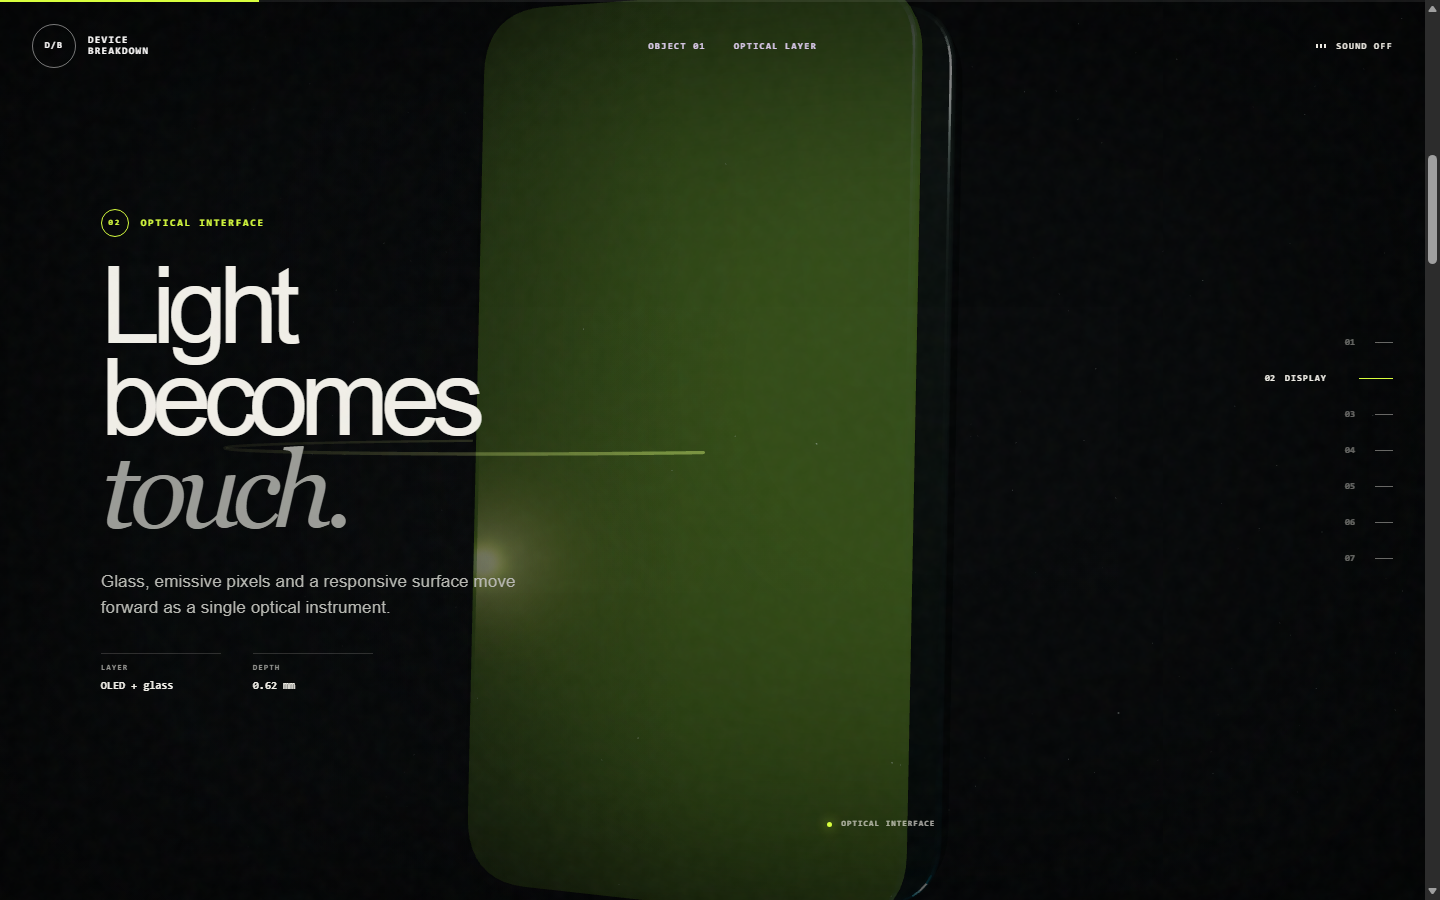
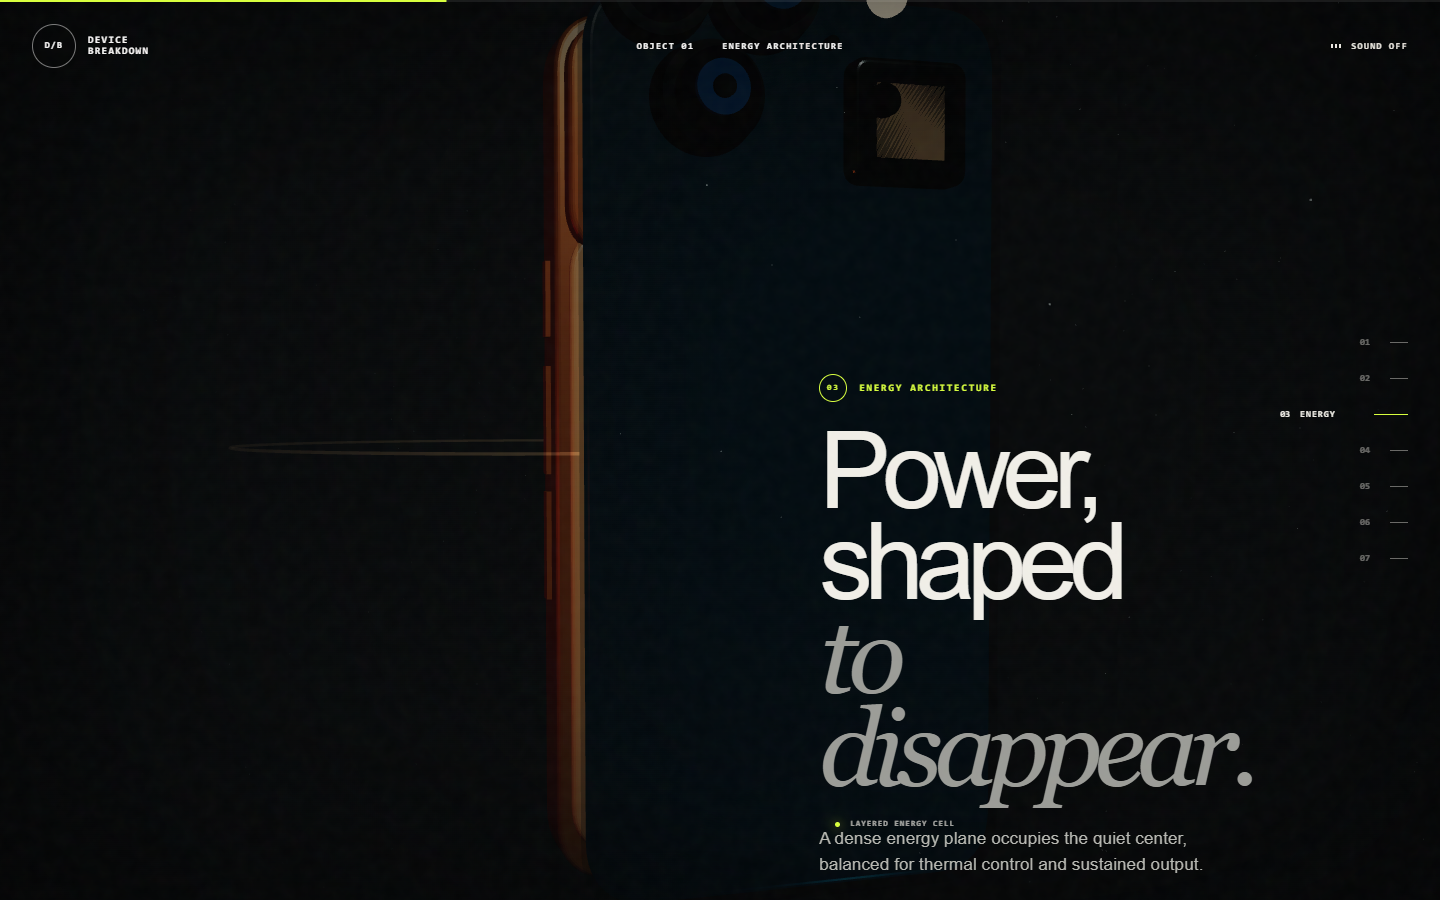
Model Cosmic Orange iPhone teardown

diff --git a/app.js b/app.js
@@ -132,15 +132,20 @@
   };
 
   const materials = {
-    frame: new THREE.MeshPhysicalMaterial({ color: 0x69716f, metalness: .92, roughness: .16, clearcoat: .9, clearcoatRoughness: .12 }),
-    glass: new THREE.MeshPhysicalMaterial({ color: 0x162b2a, metalness: .02, roughness: .06, transmission: .78, transparent: true, opacity: .34, thickness: .18, clearcoat: 1 }),
-    display: new THREE.MeshStandardMaterial({ color: 0x10201d, emissive: 0x78a92d, emissiveIntensity: .58, metalness: .12, roughness: .26 }),
-    battery: new THREE.MeshPhysicalMaterial({ color: 0xc7ccd0, metalness: .65, roughness: .28, clearcoat: .35 }),
+    frame: new THREE.MeshPhysicalMaterial({ color: 0xe96f2e, metalness: .82, roughness: .24, clearcoat: .62, clearcoatRoughness: .2 }),
+    back: new THREE.MeshPhysicalMaterial({ color: 0xf18547, metalness: .38, roughness: .3, clearcoat: .82, clearcoatRoughness: .22 }),
+    plateau: new THREE.MeshPhysicalMaterial({ color: 0xde6427, metalness: .72, roughness: .22, clearcoat: .56 }),
+    glass: new THREE.MeshPhysicalMaterial({ color: 0x091315, metalness: .02, roughness: .05, transmission: .82, transparent: true, opacity: .3, thickness: .16, clearcoat: 1 }),
+    display: new THREE.MeshStandardMaterial({ color: 0x091116, emissive: 0x164b5c, emissiveIntensity: .66, metalness: .1, roughness: .22 }),
+    battery: new THREE.MeshPhysicalMaterial({ color: 0x282d30, metalness: .68, roughness: .32, clearcoat: .28 }),
     board: new THREE.MeshStandardMaterial({ color: 0x183f36, metalness: .48, roughness: .4 }),
     chip: new THREE.MeshPhysicalMaterial({ color: 0x0b0c0d, metalness: .75, roughness: .2, clearcoat: 1 }),
-    copper: new THREE.MeshStandardMaterial({ color: 0xd7a65e, metalness: .8, roughness: .25 }),
-    lens: new THREE.MeshPhysicalMaterial({ color: 0x08131c, metalness: .25, roughness: .08, transmission: .28, clearcoat: 1 }),
-    glow: new THREE.MeshBasicMaterial({ color: 0xd8ff3e, transparent: true, opacity: .62, blending: THREE.AdditiveBlending, depthWrite: false })
+    copper: new THREE.MeshStandardMaterial({ color: 0xd98a48, metalness: .84, roughness: .22 }),
+    lens: new THREE.MeshPhysicalMaterial({ color: 0x03070d, metalness: .34, roughness: .055, transmission: .32, transparent: true, opacity: .96, clearcoat: 1 }),
+    lensCoating: new THREE.MeshPhysicalMaterial({ color: 0x173454, emissive: 0x071426, emissiveIntensity: .48, metalness: .16, roughness: .04, transmission: .44, transparent: true, opacity: .88, clearcoat: 1 }),
+    black: new THREE.MeshPhysicalMaterial({ color: 0x111315, metalness: .78, roughness: .18, clearcoat: .72 }),
+    flash: new THREE.MeshBasicMaterial({ color: 0xfff3d5, toneMapped: false }),
+    glow: new THREE.MeshBasicMaterial({ color: 0xff9a54, transparent: true, opacity: .66, blending: THREE.AdditiveBlending, depthWrite: false })
   };
 
   const parts = {};
@@ -157,21 +162,64 @@
     return mesh;
   };
 
-  addPart("body", new THREE.Mesh(roundedGeometry(3.4, 6.7, .36, .48), materials.frame), -.72, [0, 0, -2.1]);
-  addPart("battery", new THREE.Mesh(roundedGeometry(2.54, 4.28, .2, .26), materials.battery), -.22, [.65, -.18, -1.05]);
-  addPart("board", new THREE.Mesh(roundedGeometry(2.65, 1.38, .18, .18), materials.board), .08, [-.75, 1.9, .25]);
-  const screen = addPart("screen", new THREE.Mesh(roundedGeometry(3.22, 6.48, .1, .44), materials.display), .48, [-.16, .1, 2.2]);
+  const bodyAssembly = new THREE.Group();
+  const unibody = new THREE.Mesh(roundedGeometry(3.24, 6.78, .42, .45), materials.frame);
+  const backPanel = new THREE.Mesh(roundedGeometry(3.02, 4.86, .055, .34), materials.back);
+  backPanel.position.set(0, -.72, .235);
+  const cameraPlateau = new THREE.Mesh(roundedGeometry(3.08, 1.7, .17, .34), materials.plateau);
+  cameraPlateau.position.set(0, 2.43, .3);
+  bodyAssembly.add(unibody, backPanel, cameraPlateau);
+
+  const logoShape = new THREE.Shape();
+  logoShape.moveTo(0, -.42);
+  logoShape.bezierCurveTo(-.34, -.45, -.52, -.15, -.5, .12);
+  logoShape.bezierCurveTo(-.47, .42, -.26, .58, -.06, .5);
+  logoShape.bezierCurveTo(.08, .44, .14, .44, .28, .5);
+  logoShape.bezierCurveTo(.5, .58, .62, .34, .55, .08);
+  logoShape.bezierCurveTo(.5, -.16, .34, -.4, 0, -.42);
+  const logoBite = new THREE.Path();
+  logoBite.absellipse(.45, .28, .16, .16, 0, Math.PI * 2, false, 0);
+  logoShape.holes.push(logoBite);
+  const logo = new THREE.Mesh(new THREE.ShapeGeometry(logoShape, 18), materials.black);
+  logo.scale.set(.58, .58, .58);
+  logo.position.set(0, -.7, .345);
+  const logoLeaf = new THREE.Mesh(new THREE.CircleGeometry(.12, 20), materials.black);
+  logoLeaf.scale.set(.52, 1, 1);
+  logoLeaf.rotation.z = -.58;
+  logoLeaf.position.set(.14, -.2, .346);
+  bodyAssembly.add(logo, logoLeaf);
+
+  const addSideButton = (width, height, x, y) => {
+    const button = new THREE.Mesh(new THREE.BoxGeometry(width, height, .12), materials.plateau);
+    button.position.set(x, y, 0);
+    bodyAssembly.add(button);
+  };
+  addSideButton(.09, .6, -1.66, 1.2);
+  addSideButton(.09, .86, -1.66, .24);
+  addSideButton(.09, .86, -1.66, -.76);
+  addSideButton(.09, 1.12, 1.66, .52);
+  addSideButton(.09, .74, 1.66, -.92);
+
+  addPart("body", bodyAssembly, -.18, [0, 0, -2.1]);
+  const battery = addPart("battery", new THREE.Mesh(roundedGeometry(2.52, 4.18, .2, .26), materials.battery), -.02, [.62, -.2, -.92]);
+  battery.position.y = -.45;
+  battery.userData.basePosition = battery.position.clone();
+  const vaporChamber = new THREE.Mesh(roundedGeometry(2.36, 1.66, .06, .18), materials.copper);
+  vaporChamber.position.set(0, 1.78, .12);
+  battery.add(vaporChamber);
+  addPart("board", new THREE.Mesh(roundedGeometry(2.58, 1.34, .18, .18), materials.board), .12, [-.78, 1.84, .28]);
+  const screen = addPart("screen", new THREE.Mesh(roundedGeometry(3.1, 6.55, .09, .42), materials.display), -.4, [-.16, .12, 2.35]);
   const screenCanvas = document.createElement("canvas");
   screenCanvas.width = 512;
   screenCanvas.height = 1024;
   const screenContext = screenCanvas.getContext("2d");
   const screenGradient = screenContext.createLinearGradient(0, 0, 512, 1024);
-  screenGradient.addColorStop(0, "#274e48");
-  screenGradient.addColorStop(.46, "#0b1515");
-  screenGradient.addColorStop(1, "#141912");
+  screenGradient.addColorStop(0, "#184d6b");
+  screenGradient.addColorStop(.44, "#0a1725");
+  screenGradient.addColorStop(1, "#281426");
   screenContext.fillStyle = screenGradient;
   screenContext.fillRect(0, 0, 512, 1024);
-  screenContext.strokeStyle = "rgba(216,255,62,.75)";
+  screenContext.strokeStyle = "rgba(255,150,84,.82)";
   screenContext.lineWidth = 3;
   for (let ring = 0; ring < 5; ring += 1) {
     screenContext.beginPath();
@@ -181,15 +229,19 @@
   screenContext.fillStyle = "rgba(241,239,232,.72)";
   screenContext.font = "700 18px monospace";
   screenContext.letterSpacing = "4px";
-  screenContext.fillText("OBJECT / 01", 38, 72);
-  screenContext.fillStyle = "#d8ff3e";
+  screenContext.fillText("17 PRO MAX", 38, 72);
+  screenContext.fillStyle = "#050608";
+  screenContext.beginPath();
+  screenContext.roundRect(176, 32, 160, 46, 23);
+  screenContext.fill();
+  screenContext.fillStyle = "#ff9a54";
   screenContext.fillRect(38, 920, 136, 4);
   const screenTexture = new THREE.CanvasTexture(screenCanvas);
   screenTexture.colorSpace = THREE.SRGBColorSpace;
   const screenSurface = new THREE.Mesh(new THREE.PlaneGeometry(3.02, 6.18), new THREE.MeshBasicMaterial({ map: screenTexture, transparent: true, opacity: .82 }));
   screenSurface.position.z = .11;
   screen.add(screenSurface);
-  addPart("glass", new THREE.Mesh(roundedGeometry(3.29, 6.56, .07, .46), materials.glass), .66, [-.3, .2, 3.2]);
+  addPart("glass", new THREE.Mesh(roundedGeometry(3.16, 6.62, .065, .44), materials.glass), -.52, [-.3, .2, 3.28]);
 
   const chip = addPart("chip", new THREE.Mesh(roundedGeometry(.82, .82, .13, .08), materials.chip), .25, [1.15, 1.55, 1.4]);
   chip.position.set(.3, 1.9, .25);
@@ -199,21 +251,37 @@
   chip.add(chipCore);
 
   const cameraArray = new THREE.Group();
-  cameraArray.position.set(-.82, 2.25, .12);
-  cameraArray.userData.baseZ = .12;
+  cameraArray.position.set(-.62, 2.47, .49);
+  cameraArray.userData.baseZ = .49;
   cameraArray.userData.basePosition = cameraArray.position.clone();
   cameraArray.userData.offset = new THREE.Vector3(-1.15, .9, 2.55);
   cameraArray.userData.name = "camera";
-  [[0, 0], [.82, .08], [.35, -.78]].forEach(([x, y], index) => {
-    const barrel = new THREE.Mesh(new THREE.CylinderGeometry(.32 - index * .025, .37, .28, 40), materials.frame);
+  [[-.34, .32], [.39, .32], [0, -.38]].forEach(([x, y], index) => {
+    const barrel = new THREE.Mesh(new THREE.CylinderGeometry(.35, .38, .24, 48), materials.black);
     barrel.rotation.x = Math.PI / 2;
     barrel.position.set(x, y, 0);
     barrel.castShadow = true;
-    const lens = new THREE.Mesh(new THREE.CylinderGeometry(.23, .23, .3, 40), materials.lens);
+    const lens = new THREE.Mesh(new THREE.CylinderGeometry(.27, .27, .27, 48), materials.lens);
     lens.rotation.x = Math.PI / 2;
-    lens.position.set(x, y, .14);
-    cameraArray.add(barrel, lens);
+    lens.position.set(x, y, .15);
+    const coating = new THREE.Mesh(new THREE.CylinderGeometry(.18, .18, .29, 48), materials.lensCoating);
+    coating.rotation.x = Math.PI / 2;
+    coating.position.set(x, y, .19);
+    const iris = new THREE.Mesh(new THREE.CylinderGeometry(.075, .075, .3, 32), materials.black);
+    iris.rotation.x = Math.PI / 2;
+    iris.position.set(x, y, .22);
+    cameraArray.add(barrel, lens, coating, iris);
   });
+  const flash = new THREE.Mesh(new THREE.CylinderGeometry(.14, .14, .06, 32), materials.flash);
+  flash.rotation.x = Math.PI / 2;
+  flash.position.set(1.22, .34, .12);
+  const lidar = new THREE.Mesh(new THREE.CylinderGeometry(.115, .115, .07, 32), materials.lens);
+  lidar.rotation.x = Math.PI / 2;
+  lidar.position.set(1.2, -.36, .12);
+  const microphone = new THREE.Mesh(new THREE.CylinderGeometry(.045, .045, .08, 20), materials.black);
+  microphone.rotation.x = Math.PI / 2;
+  microphone.position.set(.82, 0, .12);
+  cameraArray.add(flash, lidar, microphone);
   phone.add(cameraArray);
   parts.camera = cameraArray;
 
@@ -250,10 +318,10 @@
   keyLight.position.set(7, 8, 8);
   keyLight.castShadow = !coarsePointer.matches;
   scene.add(keyLight);
-  const acidLight = new THREE.PointLight(0xd8ff3e, 34, 16, 2);
+  const acidLight = new THREE.PointLight(0xff7d34, 42, 18, 2);
   acidLight.position.set(-5, -1, 4);
   scene.add(acidLight);
-  const rimLight = new THREE.PointLight(0x47d8ff, 28, 15, 2);
+  const rimLight = new THREE.PointLight(0x4fc8ff, 28, 15, 2);
   rimLight.position.set(4, -5, 1);
   scene.add(rimLight);
 

diff --git a/index.html b/index.html
@@ -3,8 +3,8 @@
 <head>
   <meta charset="utf-8">
   <meta name="viewport" content="width=device-width, initial-scale=1, viewport-fit=cover">
-  <title>Device Breakdown Experience — A cinematic WebGL teardown</title>
-  <meta name="description" content="An interactive WebGL journey through the layers of a premium smartphone, from glass and battery to camera, logic board and silicon.">
+  <title>iPhone 17 Pro Max Breakdown — A cinematic WebGL teardown</title>
+  <meta name="description" content="An interactive WebGL journey through a Cosmic Orange iPhone 17 Pro Max, from Ceramic Shield and battery to the Pro camera array and silicon.">
   <meta name="theme-color" content="#07090a">
   <meta name="robots" content="index,follow">
   <link rel="canonical" href="https://device.ntdesweb.dev/">
@@ -13,19 +13,19 @@
   <meta property="og:site_name" content="NTDESWEB">
   <meta property="og:locale" content="en_US">
   <meta property="og:title" content="Device Breakdown Experience">
-  <meta property="og:description" content="Scroll through a cinematic, real-time WebGL smartphone teardown.">
+  <meta property="og:description" content="Scroll through a cinematic, real-time Cosmic Orange iPhone 17 Pro Max teardown.">
   <meta property="og:url" content="https://device.ntdesweb.dev/">
   <meta property="og:image" content="https://device.ntdesweb.dev/assets/og-device.png">
   <meta property="og:image:secure_url" content="https://device.ntdesweb.dev/assets/og-device.png">
   <meta property="og:image:type" content="image/png">
   <meta property="og:image:width" content="1200">
   <meta property="og:image:height" content="630">
-  <meta property="og:image:alt" content="Premium smartphone components floating in a cinematic WebGL teardown">
+  <meta property="og:image:alt" content="Cosmic Orange iPhone 17 Pro Max components floating in a cinematic WebGL teardown">
   <meta name="twitter:card" content="summary_large_image">
   <meta name="twitter:title" content="Device Breakdown Experience">
-  <meta name="twitter:description" content="A cinematic WebGL teardown rendered in real time.">
+  <meta name="twitter:description" content="A Cosmic Orange iPhone 17 Pro Max teardown rendered in real time.">
   <meta name="twitter:image" content="https://device.ntdesweb.dev/assets/og-device.png">
-  <meta name="twitter:image:alt" content="Premium smartphone components floating in a cinematic WebGL teardown">
+  <meta name="twitter:image:alt" content="Cosmic Orange iPhone 17 Pro Max components floating in a cinematic WebGL teardown">
   <link rel="preconnect" href="https://cdn.jsdelivr.net" crossorigin>
   <link rel="stylesheet" href="styles.css">
   <script type="application/ld+json">
@@ -77,12 +77,12 @@
   <main id="story">
     <section class="chapter chapter--hero" id="origin" data-chapter="0" data-state="Unified form">
       <div class="chapter-copy">
-        <p class="kicker"><span>01</span> A study in controlled complexity</p>
-        <h1>One object.<br><em>Thousands of decisions.</em></h1>
-        <p class="lead">Scroll to move beyond the surface. Every layer is rendered live, suspended in light and rebuilt by your movement.</p>
+        <p class="kicker"><span>01</span> iPhone 17 Pro Max / Cosmic Orange</p>
+        <h1>Forged in orange.<br><em>Engineered in layers.</em></h1>
+        <p class="lead">Scroll beyond the aluminum unibody. Ceramic Shield, battery, Pro cameras and silicon separate in real time and rebuild through your movement.</p>
         <div class="gesture" aria-hidden="true"><i></i><span>Initiate breakdown</span></div>
       </div>
-      <p class="edge-note">Real-time WebGL / Procedural geometry / 60 FPS target</p>
+      <p class="edge-note">6.9-inch form / Procedural WebGL study / Cosmic Orange</p>
     </section>
 
     <section class="chapter" id="display" data-chapter="1" data-state="Optical layer">

diff --git a/README.md b/README.md
@@ -5,14 +5,14 @@
 - **Live experience:** https://device.ntdesweb.dev/
 - **Explore more NTDESWEB experiments:** https://fx.ntdesweb.dev/
 
-A cinematic, scroll-directed WebGL teardown of a procedural premium smartphone. The experience moves through glass, display, battery, camera, logic board and silicon before resolving every layer back into one object.
+A cinematic, scroll-directed WebGL teardown of a procedurally modeled iPhone 17 Pro Max in Cosmic Orange. The experience moves through Ceramic Shield, display, battery, Pro camera array, logic board and silicon before resolving every layer back into one object.
 
 ![Device Breakdown Experience preview](assets/preview.gif)
 
 ## Experience design
 
 - Seven reversible narrative chapters driven by scroll position.
-- Procedural smartphone geometry—no downloaded 3D model or texture payload.
+- Procedural iPhone 17 Pro Max-inspired geometry—no downloaded 3D model or texture payload.
 - Physical layer separation with independent drift, focus and reassembly states.
 - Responsive camera choreography, parallax, dynamic lighting, glow, fog and glass.
 - Optional synthesized interface sound using the Web Audio API.
